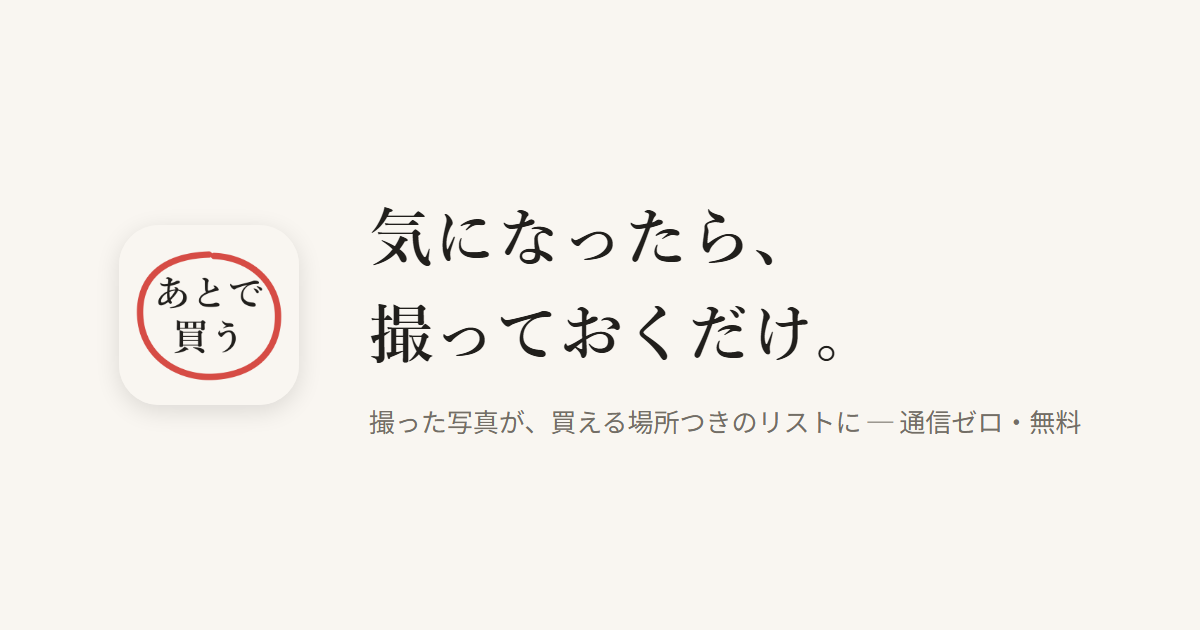
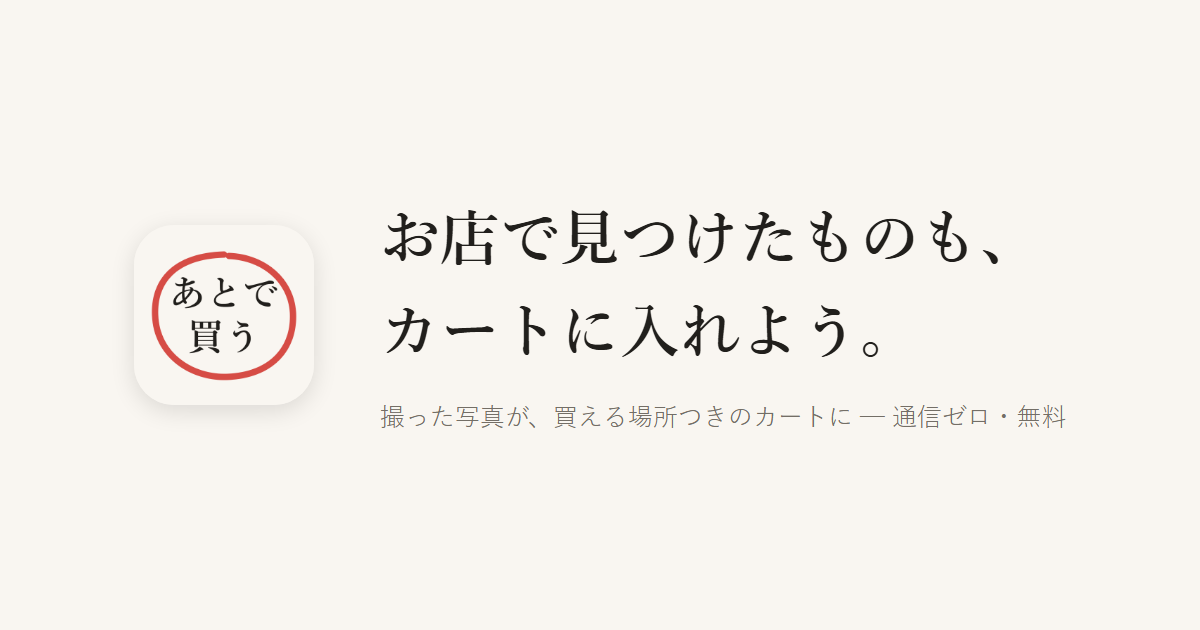
追従バーを足し、OGPを改名後の文言に更新

diff --git a/index.html b/index.html
@@ -80,6 +80,17 @@ body{margin:0;background:var(--paper);color:var(--text);
 footer{margin-top:56px;border-top:1px solid var(--line);padding:26px 0 60px;
   text-align:center;color:var(--muted);font-size:.84rem;}
 footer a{color:var(--muted);margin:0 10px;}
+
+.stickybar{position:fixed;left:0;right:0;bottom:0;z-index:10;
+  background:rgba(249,246,241,.92);backdrop-filter:blur(8px);
+  border-top:1px solid var(--line);padding:10px 16px calc(10px + env(safe-area-inset-bottom));
+  display:flex;align-items:center;justify-content:center;gap:12px;
+  transform:translateY(110%);transition:transform .25s ease;}
+.stickybar.show{transform:none;}
+.stickybar img{width:34px;height:34px;border-radius:9px;}
+.stickybar .t{font-size:.9rem;font-weight:700;color:var(--ink);}
+.stickybar .s{display:inline-block;background:var(--card);color:var(--accent);font-weight:700;
+  border:1.5px solid var(--accent);border-radius:999px;padding:8px 20px;font-size:.9rem;white-space:nowrap;}
 </style>
 <script type="application/ld+json">
 {"@context":"https://schema.org","@type":"SoftwareApplication","name":"カートに入れる",
@@ -153,5 +164,22 @@ footer a{color:var(--muted);margin:0 10px;}
 </footer>
 
 </div>
+
+<!-- 追従バー。配信が始まったら .s を App Store リンクに差し替える -->
+<div class="stickybar" id="bar">
+  <img src="img/icon.png?v=3" alt="">
+  <span class="t">カートに入れる</span>
+  <span class="s">App Store で準備中</span>
+</div>
+<script>
+(function(){
+  var bar=document.getElementById('bar'), hero=document.querySelector('.hero');
+  function onScroll(){
+    var past=hero.getBoundingClientRect().bottom < 0;
+    bar.classList.toggle('show', past);
+  }
+  addEventListener('scroll', onScroll, {passive:true}); onScroll();
+})();
+</script>
 </body>
 </html>
